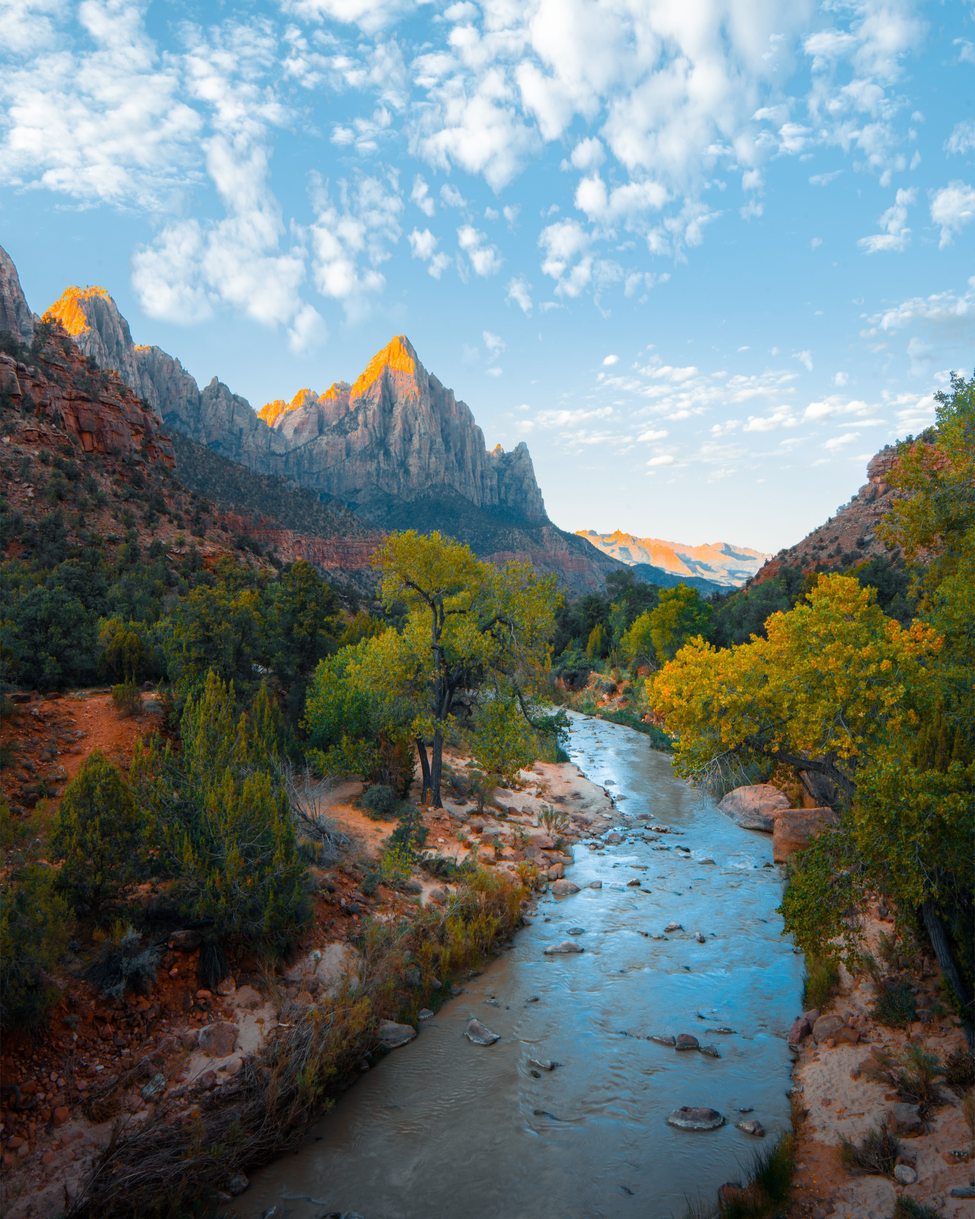
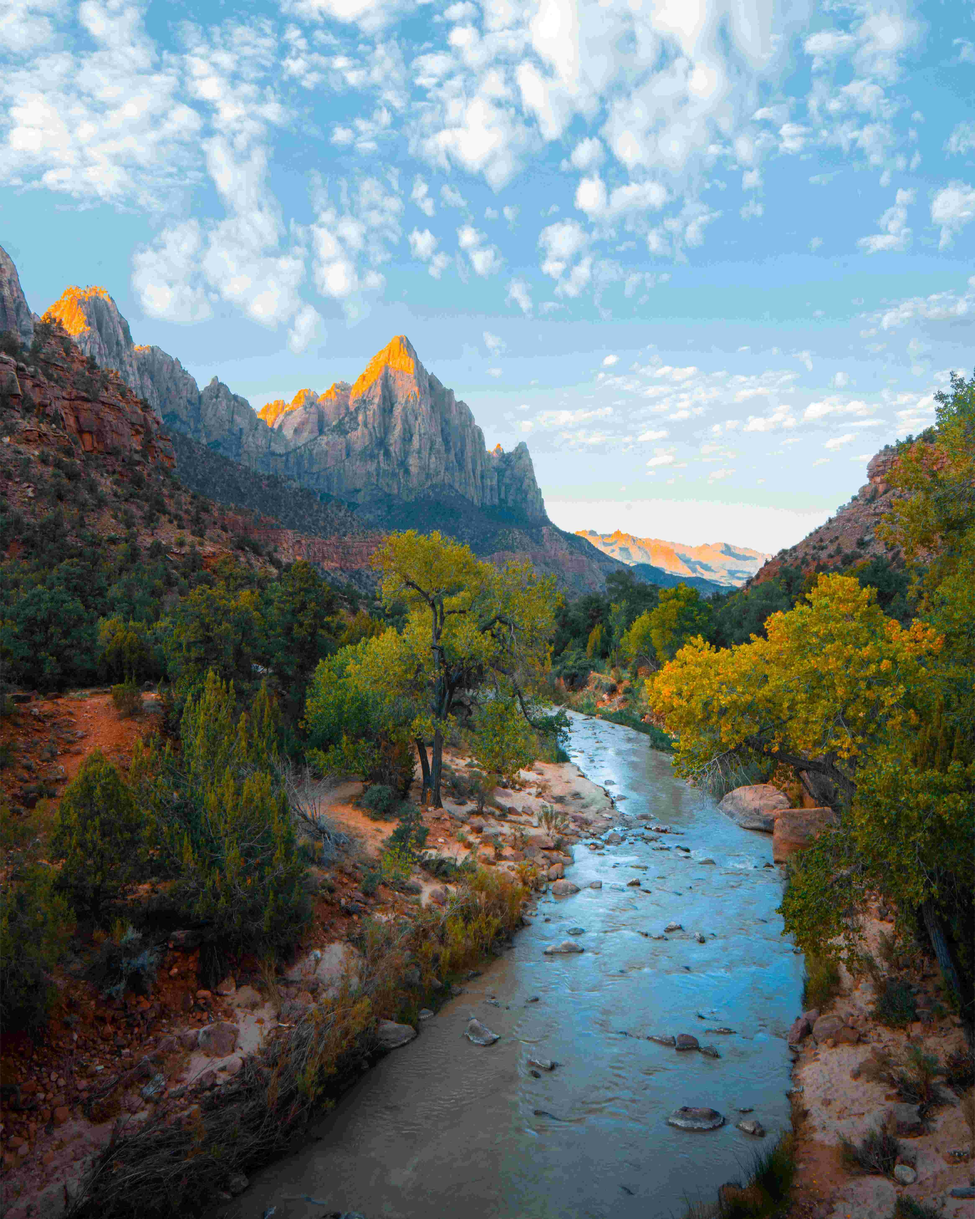
Pagination (#7)
* move components and cms to lib

* refrain from passing down pageData to test component

* reduce quality of images

* onSave test fix

* add pagination

* nothing

---------

diff --git a/src/routes/results/results/+page.svelte b/src/routes/results/results/+page.svelte
@@ -1,14 +1,36 @@
 <script lang="ts">
+	import { getPagination } from '../../../hooks/pagination';
 	import { fly } from 'svelte/transition';
 	import { goto } from '$app/navigation';
 	import type { PageData } from './$types';
 	export let data: PageData;
-	console.log(data);
+	let { testData, supabase } = data;
+	let page: number = 0;
+	let paginationResult: { from: number; to: number };
+	$: paginationResult = getPagination(page);
+	const getTestsData = async (from: number, to: number) => {
+		const { data } = await supabase
+			.from('Tests')
+			.select()
+			.order('created_at', { ascending: false })
+			.range(from, to);
+		return data;
+	};
+	const updateTestsData = (from: number, to: number) => {
+		if (from !== 0) {
+			getTestsData(from, to).then((result) => {
+				if (testData !== null && result !== null) {
+					testData = testData.concat(result);
+				}
+			});
+		}
+	};
+	$: updateTestsData(paginationResult.from, paginationResult.to);
 </script>
 
 <div
-	id="main-results-container"
-	class="flex h-screen w-screen flex-col items-center justify-center px-12 py-12"
+	id="main-results-wrapper"
+	class="flex h-screen w-screen flex-col items-center justify-center px-4 py-12"
 	in:fly={{ y: -screen.height / 2, duration: 1000 }}
 >
 	<form action="/logout" method="GET" class="fixed left-2 top-2 z-30 sm:left-10 sm:top-10">
@@ -24,23 +46,48 @@
 		class="btn fixed right-2 top-2 z-30 bg-transparent text-slate-300 transition duration-75 hover:-translate-y-0.5 hover:shadow-lg sm:right-10 sm:top-10 sm:text-2xl"
 		on:click={() => goto('/results')}>Back</button
 	>
-	<div
-		id="test-result-title-row"
-		class="mb-12 grid grid-cols-3 items-center justify-center gap-2 text-center"
-	>
-		<div class="text-xl text-zinc-300 sm:text-2xl">Type</div>
-		<div class="text-xl text-zinc-300 sm:text-2xl">Questions Sum</div>
-		<div class="text-xl text-zinc-300 sm:text-2xl">Date</div>
-	</div>
-	{#if data.testData != null}
-		{#each data.testData as testData}
-			<div id="test-result" class="grid grid-cols-3 items-center justify-center gap-2 text-center">
-				<div class="text-xl text-zinc-300 sm:text-2xl" id="test-name">{testData.type}</div>
-				<div class="text-xl text-zinc-300 sm:text-2xl" id="test-sum">{testData.questions_sum}</div>
-				<div class="text-xl text-zinc-300 sm:text-2xl" id="test-created">
-					{testData.created_at.substring(0, 10)}
+	{#if testData != null}
+		<div
+			id="test-result-title-row"
+			class=" mb-12 grid w-full grid-cols-3 items-center justify-center gap-2 text-center md:w-1/2"
+		>
+			<div class="text-xl text-zinc-300 sm:text-2xl">Type</div>
+			<div class="text-xl text-zinc-300 sm:text-2xl">Questions Sum</div>
+			<div class="text-xl text-zinc-300 sm:text-2xl">Date</div>
+		</div>
+		<div
+			id="test-result-container"
+			class="leanscroll flex max-h-96 w-full flex-col overflow-auto md:w-1/2"
+		>
+			{#each testData as test}
+				<div
+					id="test-result"
+					class="grid w-full grid-cols-3 items-center justify-center gap-2 text-center"
+				>
+					<div class="text-xl text-zinc-300 sm:text-2xl" id="test-name">{test.type}</div>
+					<div class="text-xl text-zinc-300 sm:text-2xl" id="test-sum">{test.questions_sum}</div>
+					<div class="text-xl text-zinc-300 sm:text-2xl" id="test-created">
+						{test.created_at.substring(0, 10)}
+					</div>
 				</div>
-			</div>
-		{/each}
+			{/each}
+		</div>
+		<button
+			class="btn mt-2"
+			on:click={() => {
+				page++;
+			}}>show more</button
+		>
 	{/if}
 </div>
+
+<style>
+	.leanscroll::-webkit-scrollbar {
+		width: 4px;
+		margin-left: 10px;
+	}
+	.leanscroll::-webkit-scrollbar-thumb {
+		background: slateblue;
+		border-radius: 2px;
+	}
+</style>

diff --git a/src/routes/tests/+page.svelte b/src/routes/tests/+page.svelte
@@ -1,11 +1,11 @@
 <script lang="ts">
-	import { TEST_NAMES, BACKGROUND_NAMES } from '../../cms/tests/tests';
-	import { QUESTION_SET } from '../../cms/tests/questions';
-	import { TITLES } from '../../cms/tests/titles';
-	import { MAX_RANGES, MIN_RANGES } from '../../cms/tests/ranges';
-	import { TEST_DESCRIPTION_HELP } from '../../cms/tests/description';
-	import Option from '../../components/home/option/option.svelte';
-	import TestComponent from '../../components/test/test_component/test_component.svelte';
+	import { TEST_NAMES, BACKGROUND_NAMES } from '$lib/cms/tests/tests';
+	import { QUESTION_SET } from '$lib/cms/tests/questions';
+	import { TITLES } from '$lib/cms/tests/titles';
+	import { MAX_RANGES, MIN_RANGES } from '$lib/cms/tests/ranges';
+	import { TEST_DESCRIPTION_HELP } from '$lib/cms/tests/description';
+	import Option from '$lib/components/home/option/option.svelte';
+	import TestComponent from '$lib/components/test/test_component/test_component.svelte';
 	import type { PageData } from './$types';
 	import { goto } from '$app/navigation';
 	import { fly } from 'svelte/transition';
@@ -21,6 +21,20 @@
 			}
 		}
 		return false;
+	};
+	const onSave = async (answerSet: Array<number>, title: string, description: string) => {
+		console.log(data.session);
+		if (data.session) {
+			const { error } = await data.supabase.from('Tests').insert({
+				questions: answerSet,
+				user_id: data.session.user.id,
+				type: title,
+				description: description,
+				created_at: new Date(),
+				questions_sum: answerSet.reduce((a, b) => a + b, 0)
+			});
+			if (error) console.log(error);
+		}
 	};
 </script>
 
@@ -65,7 +79,7 @@
 			maxRange={MAX_RANGES[activeIndex]}
 			minRange={MIN_RANGES[activeIndex]}
 			helpDescription={TEST_DESCRIPTION_HELP[activeIndex]}
-			{data}
+			{onSave}
 		/>
 	{/if}
 </div>

diff --git a/src/lib/components/test/test_component/test_component.svelte b/src/lib/components/test/test_component/test_component.svelte
@@ -1,8 +1,5 @@
 <script lang="ts">
 	import { fade } from 'svelte/transition';
-	import type { PageData } from '../../../routes/$types';
-
-	export let data: PageData;
 
 	export let title: string = 'test';
 	export let questions: Array<string> = ['question 1'];
@@ -11,6 +8,7 @@
 	export let helpDescription: Array<string> = ['help'];
 	export let answerSet: Array<number> = Array(questions.length);
 	export let active: boolean = false;
+	export let onSave: Function;
 	let openTooltip: boolean = false;
 	let description: string = '';
 
@@ -96,19 +94,8 @@
 		<button
 			id="save-button"
 			class="btn w-1/4 font-semibold text-zinc-300 hover:-translate-y-0.5 hover:shadow-md"
-			on:click={async () => {
-				if (data.session) {
-					const { error } = await data.supabase.from('Tests').insert({
-						questions: answerSet,
-						user_id: data.session.user.id,
-						type: title,
-						description: description,
-						created_at: new Date(),
-						questions_sum: answerSet.reduce((a, b) => a + b, 0)
-					});
-					if (error) console.log(error);
-				}
-
+			on:click={() => {
+				onSave(answerSet, title, description);
 				active = !active;
 			}}>save</button
 		>

diff --git a/src/routes/results/results/+page.server.ts b/src/routes/results/results/+page.server.ts
@@ -8,7 +8,11 @@ export const load: PageServerLoad = async ({ locals: { supabase, getSession } })
 		// the user is not signed in
 		throw error(401, { message: 'Unauthorized' });
 	}
-	const { data } = await supabase.from('Tests').select();
+	const { data } = await supabase
+		.from('Tests')
+		.select()
+		.order('created_at', { ascending: false })
+		.range(0, 10);
 
 	return { session: session, testData: data };
 };

diff --git a/src/routes/results/+page.svelte b/src/routes/results/+page.svelte
@@ -1,6 +1,6 @@
 <script lang="ts">
-	import Option from '../../components/home/option/option.svelte';
-	import { BACKGROUND_NAMES } from '../../cms/results/results';
+	import Option from '$lib/components/home/option/option.svelte';
+	import { BACKGROUND_NAMES } from '$lib/cms/results/results';
 	import { goto } from '$app/navigation';
 	import { fly } from 'svelte/transition';
 </script>

diff --git a/src/routes/results/statistics/+page.server.ts b/src/routes/results/statistics/+page.server.ts
@@ -7,6 +7,6 @@ export const load: PageServerLoad = async ({ locals: { supabase, getSession } })
 		// the user is not signed in
 		throw error(401, { message: 'Unauthorized' });
 	}
-	const { data } = await supabase.from('Tests').select();
+	const { data } = await supabase.from('Tests').select().order('created_at', { ascending: true });
 	return { session: session, testsData: data };
 };

diff --git a/src/hooks/pagination.ts b/src/hooks/pagination.ts
@@ -1,0 +1,7 @@
+export const getPagination = (page: number, size = 10) => {
+	const limit = size ? +size : 10;
+	const from = page ? page * limit : 0;
+	const to = page ? from + size - 1 : size - 1;
+
+	return { from, to };
+};

diff --git a/src/routes/+page.svelte b/src/routes/+page.svelte
@@ -1,5 +1,5 @@
 <script>
-	import { TITLE } from '../cms/home/home';
+	import { TITLE } from '$lib/cms/home/home';
 	import { goto } from '$app/navigation';
 	import { fly } from 'svelte/transition';
 </script>
